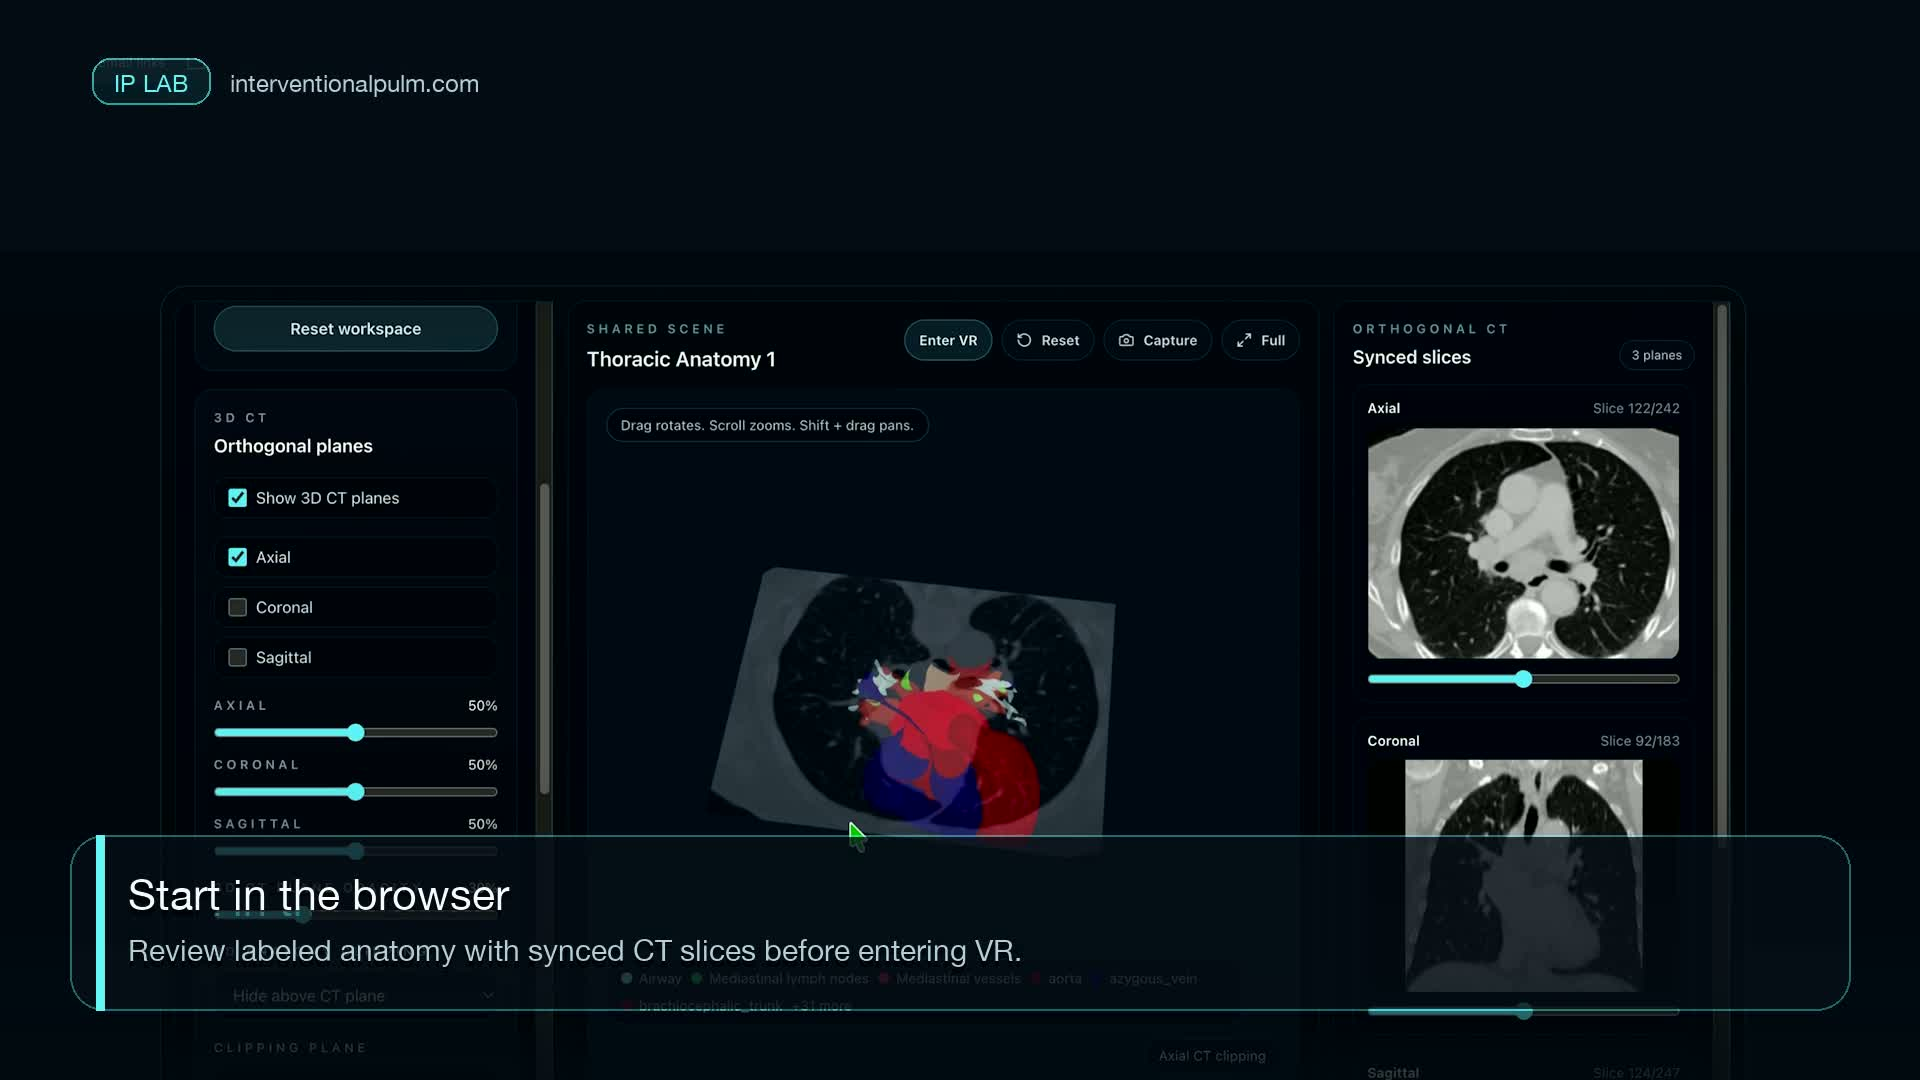
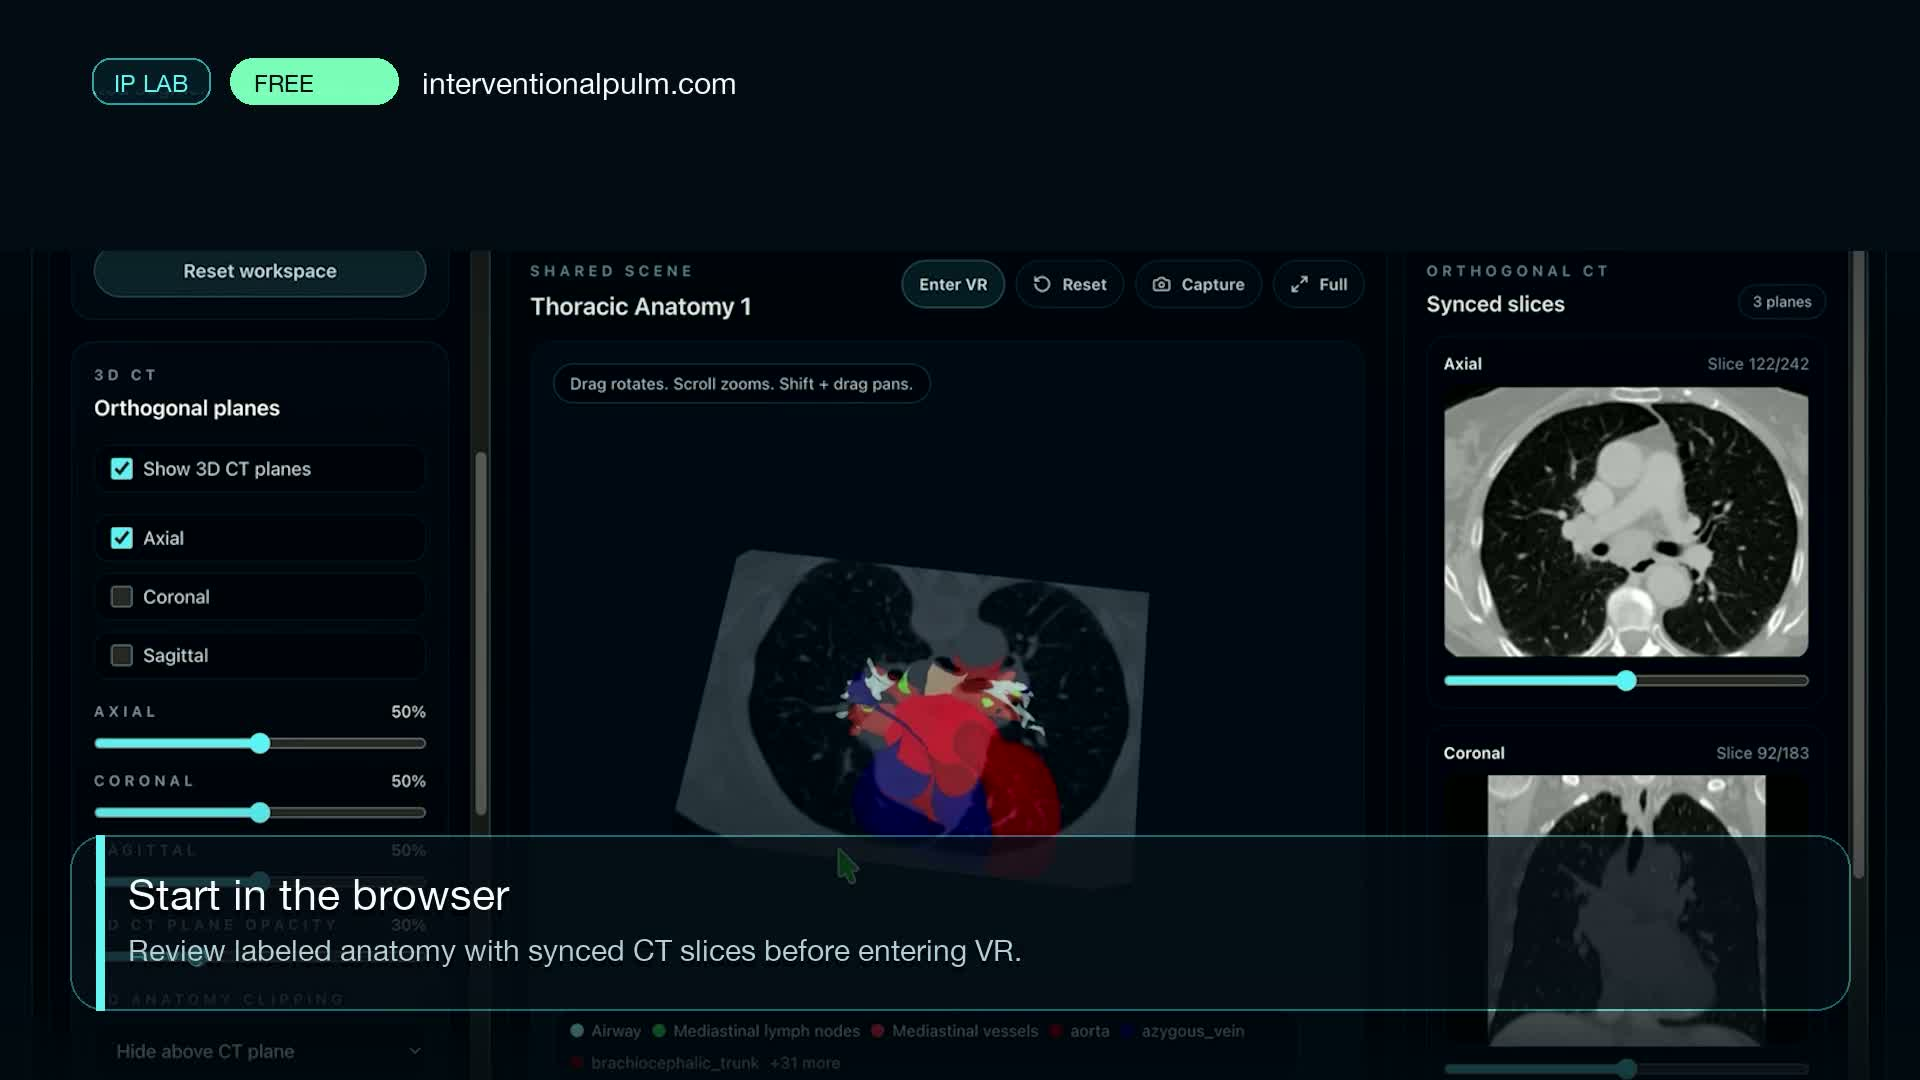
updates

diff --git a/src/lib/airway-anatomy/admin-assets.ts b/src/lib/airway-anatomy/admin-assets.ts
@@ -1,20 +1,21 @@
-import { resolveModuleAssetPath } from '@/lib/module-assets'
-
-const AIRWAY_ASSET_PREFIX = '/airway-anatomy/'
-const ADMIN_AIRWAY_ASSET_PREFIX = '/api/admin/airway-anatomy/'
-
+/**
+ * Resolve the URL the airway-anatomy module should fetch for an admin-only asset.
+ *
+ * The heavy airway assets are intentionally trimmed from the Railway standalone bundle
+ * (see `scripts/prepare-standalone.mjs` `remoteAssetPrefixes`) and `airway_large.stl` is not even
+ * committed to git, so in production these bytes live in Supabase Storage and are delivered through
+ * the `/airway-anatomy/:path*` fallback rewrite (`MODULE_ASSET_ORIGIN` in `next.config.mjs`).
+ *
+ * We therefore keep requests on the raw `/airway-anatomy/*` route because that route is where:
+ *   1. middleware (`proxy.ts` + `isDevOnlyAirwayAnatomyPath`) enforces the `site_admin` gate, and
+ *   2. the fallback rewrite proxies the bytes from Storage when they are absent on local disk.
+ *
+ * Do NOT route these through `resolveModuleAssetPath`: when `NEXT_PUBLIC_MODULE_ASSET_BASE_URL` is
+ * set on Railway it rewrites to the ungated `/module-assets/v1/*` path (or straight to the public
+ * CDN), escaping the admin gate. Do NOT route them through a `/api/admin/.../[...path]` file route
+ * either: that reads from `process.cwd()/public/airway-anatomy`, which is empty in the standalone
+ * output, so every request 404s.
+ */
 export function resolveAdminAirwayAssetPath(path: string): string {
-  if (!path) {
-    return path
-  }
-
-  if (/^(?:https?:)?\/\//i.test(path) || path.startsWith('data:') || path.startsWith('blob:')) {
-    return path
-  }
-
-  if (path.startsWith(AIRWAY_ASSET_PREFIX)) {
-    return `${ADMIN_AIRWAY_ASSET_PREFIX}${path.slice(AIRWAY_ASSET_PREFIX.length)}`
-  }
-
-  return resolveModuleAssetPath(path)
+  return path
 }

diff --git a/outputs/creative-production/vr-anatomy-linkedin-ad/build_overlays.py b/outputs/creative-production/vr-anatomy-linkedin-ad/build_overlays.py
@@ -30,6 +30,7 @@ def font(size: int, index: int = 0) -> ImageFont.FreeTypeFont:
 
 
 FONT_HEAVY = font(72, 1)
+FONT_CTA_DOMAIN = font(58, 1)
 FONT_MEDIUM = font(43, 0)
 FONT_SMALL = font(30, 0)
 FONT_TINY = font(24, 0)
@@ -111,7 +112,9 @@ def add_bottom_gradient(img: Image.Image, strength: int = 190, height: int = 320
 def add_brand(draw: ImageDraw.ImageDraw, x: int = 92, y: int = 58):
     rounded_rect(draw, (x, y, x + 118, y + 46), 18, (4, 27, 40, 210), (72, 226, 238, 165), 2)
     draw.text((x + 22, y + 11), "IP LAB", font=FONT_TINY, fill=CYAN)
-    draw.text((x + 138, y + 11), "interventionalpulm.com", font=FONT_TINY, fill=MUTED)
+    rounded_rect(draw, (x + 138, y, x + 306, y + 46), 23, (121, 255, 196, 235), None)
+    draw.text((x + 162, y + 11), "FREE", font=FONT_TINY, fill=(3, 15, 24, 255))
+    draw.text((x + 330, y + 7), "interventionalpulm.com", font=FONT_SMALL, fill=WHITE)
 
 
 def pill(draw: ImageDraw.ImageDraw, text: str, x: int, y: int, color=CYAN):
@@ -190,9 +193,14 @@ def make_overlay(
         rounded_rect(draw, panel, 40, (3, 14, 24, 232), (121, 255, 196, 155), 2)
         draw.rectangle((132, 708, 142, 940), fill=MINT)
         add_shadowed_text(img, (176, 704), title, FONT_HEAVY, fill=WHITE, stroke=1)
-        add_shadowed_text(img, (180, 815), subtitle, FONT_SMALL, fill=MUTED)
-        rounded_rect(draw, (1300, 840, 1748, 900), 30, (79, 234, 246, 230), None)
-        draw.text((1338, 856), "Sign up today", font=FONT_SMALL, fill=(2, 15, 24, 255))
+        add_shadowed_text(img, (180, 805), subtitle, FONT_SMALL, fill=MUTED)
+        add_shadowed_text(img, (180, 852), "interventionalpulm.com", FONT_CTA_DOMAIN, fill=WHITE, stroke=1)
+        button = (1300, 842, 1748, 906)
+        rounded_rect(draw, button, 32, (79, 234, 246, 238), None)
+        button_text = "Completely free to use"
+        button_bbox = draw.textbbox((0, 0), button_text, font=FONT_SMALL)
+        button_text_x = button[0] + ((button[2] - button[0]) - (button_bbox[2] - button_bbox[0])) // 2
+        draw.text((button_text_x, 859), button_text, font=FONT_SMALL, fill=(2, 15, 24, 255))
     else:
         raise ValueError(layout)
 
@@ -227,9 +235,9 @@ overlays = [
             make_overlay(
                 "01_hook",
                 "Put thoracic anatomy\nin the room",
-                "Interactive 3D anatomy for interventional pulmonary training.",
+                "Free interactive 3D anatomy for interventional pulmonary training.",
                 layout="hero",
-                tags=["Browser", "3D anatomy", "VR-ready"],
+                tags=["Free signup", "3D anatomy", "VR-ready"],
                 hide_browser=True,
             )
         ),
@@ -294,10 +302,10 @@ overlays = [
         "path": str(
             make_overlay(
                 "06_stent",
-                "Airway stent anatomy,\nnow spatial",
-                "Bring procedural models into immersive review.",
+                "All models are\navailable in 3D",
+                "Bring the full model library\ninto immersive review.",
                 layout="hero",
-                tags=["Airway stents", "Thoracic CT", "VR review"],
+                tags=["All models", "3D anatomy", "VR review"],
             )
         ),
     },
@@ -308,8 +316,8 @@ overlays = [
         "path": str(
             make_overlay(
                 "07_cta",
-                "Train beyond the flat screen",
-                "Sign up at interventionalpulm.com for immersive anatomy,\nbronchoscopy, and procedure modules.",
+                "Free 3D anatomy training",
+                "Sign up free for immersive anatomy, bronchoscopy, and procedure modules at",
                 layout="cta",
             )
         ),
@@ -318,19 +326,20 @@ overlays = [
 
 manifest = {
     "campaign": "VR anatomy LinkedIn signup ad",
-    "source_video": "/Users/russellmiller/Movies/3D_Anatomy.mp4",
+    "source_video": "/Users/russellmiller/Movies/3D_Anatomy_1.mp4",
     "dimensions": {"width": W, "height": H, "fps": 30},
     "constant_polish": str(make_constant_polish()),
     "overlays": overlays,
     "copy": [
         "Put thoracic anatomy in the room",
+        "Free interactive 3D anatomy",
         "Start in the browser",
         "Then step inside it",
         "Works with VR headsets",
         "Walk around the relationships",
-        "Airway stent anatomy, now spatial",
-        "Train beyond the flat screen",
-        "Sign up at interventionalpulm.com",
+        "All models are available in 3D",
+        "Free 3D anatomy training",
+        "Sign up free at interventionalpulm.com",
     ],
     "provenance": "User-provided video with deterministic text, bars, and polish overlays. No generated claims or third-party media.",
 }
